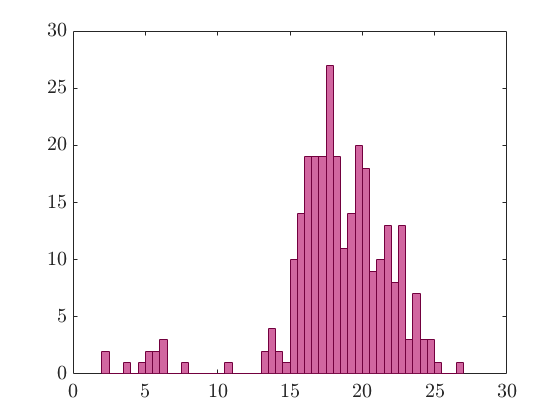
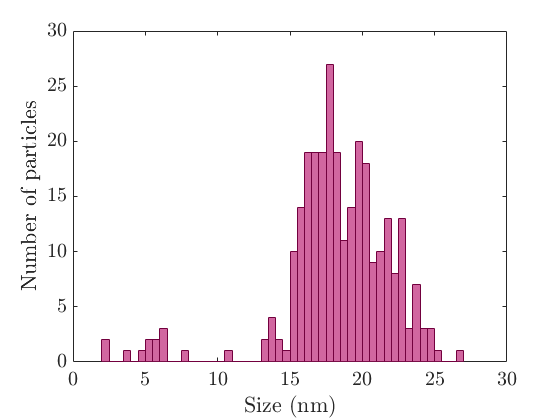
juiste TEM afbeeldingen

diff --git a/Measurement_Results/TEM.m b/Measurement_Results/TEM.m
@@ -6,15 +6,15 @@ figure(1)
 A=xlsread(fullfile('TEM','0.8.xlsx'))
 h = histogram(A(:,1),50,'FaceColor',hex2rgb('#0D747F'),'EdgeColor',hex2rgb('#063A3F'))
 xlabel('Size (nm)')
-ylabel('Counts');
+ylabel('Number of particles');
 figure(2)
 A=xlsread(fullfile('TEM','1.24.xlsx'))
 h = histogram(A(:,1),50,'FaceColor',hex2rgb('#B20061'),'EdgeColor',hex2rgb('#72003E'))
 xlabel('Size (nm)')
-ylabel('Counts');
+ylabel('Number of particles');
 figure(3)
 A=xlsread(fullfile('TEM','2.5.xlsx'))
 h = histogram(A(:,1),50,'FaceColor',hex2rgb('#BFAA13'),'EdgeColor',hex2rgb('#7F710D'))
 xlabel('Size (nm)')
-ylabel('Counts');
+ylabel('Number of particles');
  
